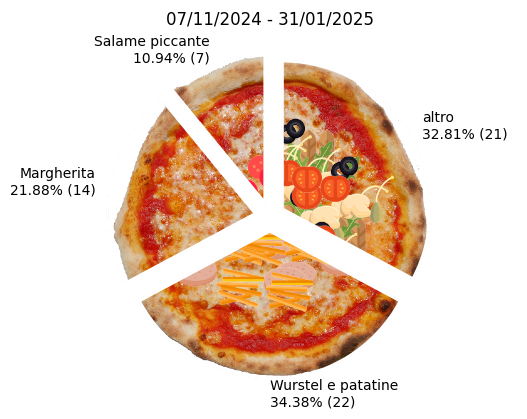
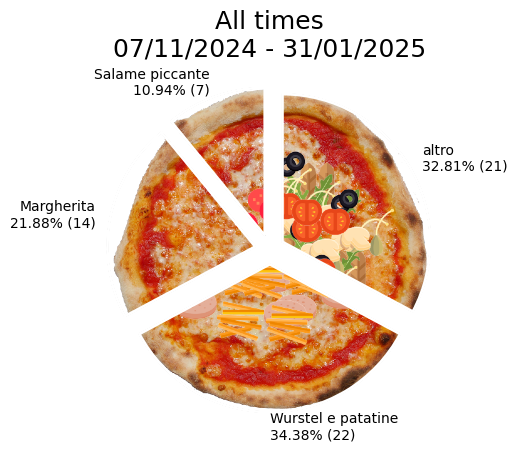
add title to summary charts

diff --git a/pizza_report.py b/pizza_report.py
@@ -30,7 +30,8 @@ if __name__ == '__main__':
     
     # Plot pizza chart of last order
     df_last_time = df[['Pizza', '#']].loc[df['Date']==df['Date'].max()]
-    title=df['Date'].max().strftime("%d/%m/%Y")
+    title=('Last time\n' +
+          df['Date'].max().strftime("%d/%m/%Y"))
     order = [(row['Pizza'], row['#'])
             for __, row in df_last_time.iterrows()
             ]
@@ -51,9 +52,11 @@ if __name__ == '__main__':
     # Plot pizza chart of last month
     df_last_month = df[['Pizza', '#']].loc[df['Date']>(now-pd.DateOffset
     (months=1))]
-    title="{} - {}".format((now-pd.DateOffset(months=1)).strftime("%d/%m/%Y"),
+    title=('Last month\n' +
+          '{} - {}'.format((now-pd.DateOffset(months=1)).strftime("%d/%m/%Y"),
                            now.strftime("%d/%m/%Y")
                            )
+           )
     order = []
     for p in df_last_month['Pizza'].unique(): 
         order.append((p, 
@@ -76,9 +79,11 @@ if __name__ == '__main__':
     # TODO. Add 'last year' graph when data will span more than one year.
     
     # Plot pizza chart of all times
-    title="{} - {}".format(df['Date'].min().strftime("%d/%m/%Y"),
+    title=('All times\n' +
+          '{} - {}'.format(df['Date'].min().strftime("%d/%m/%Y"),
                            now.strftime("%d/%m/%Y")
-                           )    
+                           )
+           )   
     order = []
     for p in df['Pizza'].unique(): 
         order.append((p, 

diff --git a/pizza_chart.py b/pizza_chart.py
@@ -39,7 +39,7 @@ def plot_pizza_chart(order, title=None, cutoff=7.0, dark_theme=False,
         edgecolor = 'w'
     fig, ax = plt.subplots()
     if title:
-        plt.title(title)
+        plt.title(title, fontdict={'fontsize': 18})
     plt.gca().axis("equal")
     wedges, __ = plt.pie(data, startangle=90, 
                          labels=[lab+'\n'+stat for lab, stat in zip(labels, stats)],
